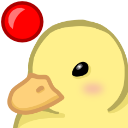
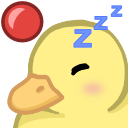
Add duck sleep stuff

diff --git a/src/Modules/App.tsx b/src/Modules/App.tsx
@@ -1,16 +1,24 @@
 import React, {useState} from 'react';
 import './App.scss';
 import {FaPaintBrush, FaSun, FaMoon} from 'react-icons/fa';
+import duckImages from '../duckImages.json';
 
 function App() {
     const [ awake, setAwake ] = useState(true);
 
     const toggleAwake = () => {
-        setAwake((_awake) => !_awake);
+        setAwake((_awake) => {
+            chrome?.runtime?.sendMessage({
+                action: 'setAwake',
+                value: !_awake,
+            }).then(r => {});
+
+            return !_awake;
+        });
     }
 
     return (
-        <div className={`app ${awake ? 'awake' : 'asleep'}`}>
+        <div className={`app ${awake ? 'awake' : 'asleep'}`} style={{ backgroundImage: awake ? 'url("/ducks/BackgroundDay.png")' : 'url("/ducks/BackgroundNight.png")'}}>
             <header>
                 <button onClick={toggleAwake}>{ awake ? <FaMoon /> : <FaSun/>}{ awake ? 'Sleep' : 'Wake' }</button>
                 <h1>Ducky</h1>
@@ -18,7 +26,7 @@ function App() {
 
             </header>
             <div className="duck">
-                <img src="/ducks/Duck.png" alt="Duck" />
+                <img src={`/ducks/${awake ? duckImages.none.awake : duckImages.none.asleep}`} alt="Duck" />
             </div>
         </div>
     );

diff --git a/public/index.html b/public/index.html
@@ -2,11 +2,10 @@
 <html lang="en">
   <head>
     <meta charset="utf-8" />
-    <link rel="icon" href="%PUBLIC_URL%/favicon.ico" />
     <meta name="viewport" content="width=device-width, initial-scale=1" />
     <meta name="theme-color" content="#000000" />
     <meta name="description" content="Quack" />
-    <link rel="apple-touch-icon" href="%PUBLIC_URL%/ducks/DuckOn.png" />
+    <link rel="icon apple-touch-icon" href="%PUBLIC_URL%/ducks/DuckOn.png" />
     <link rel="manifest" href="%PUBLIC_URL%/manifest.json" />
 
     <title>❤ Ducktor</title>

diff --git a/public/background.js b/public/background.js
@@ -1,5 +1,9 @@
-chrome.runtime.onInstalled.addListener(() => {
-    chrome.action.setBadgeText({
-        text: "OFF",
-    });
+chrome.runtime.onMessage.addListener(function (msg, sender, sendResponse) {
+    if (msg.action === 'setAwake') {
+        if (msg.value) {
+            chrome.action.setIcon({ path: '/ducks/DuckOn.png' });
+        } else {
+            chrome.action.setIcon({ path: '/ducks/DuckOff.png' });
+        }
+    }
 });
